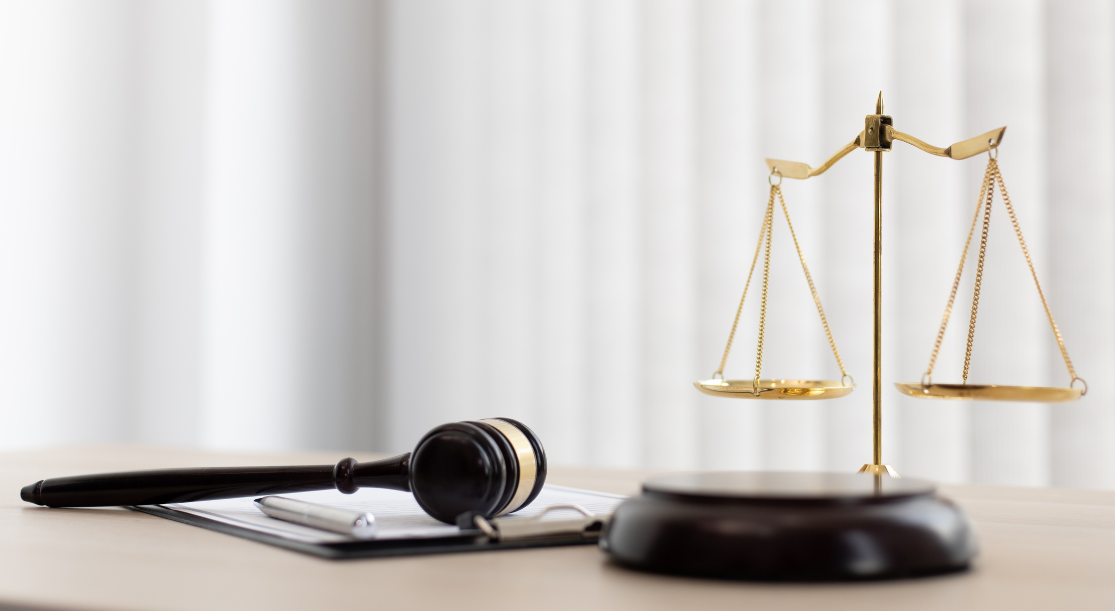
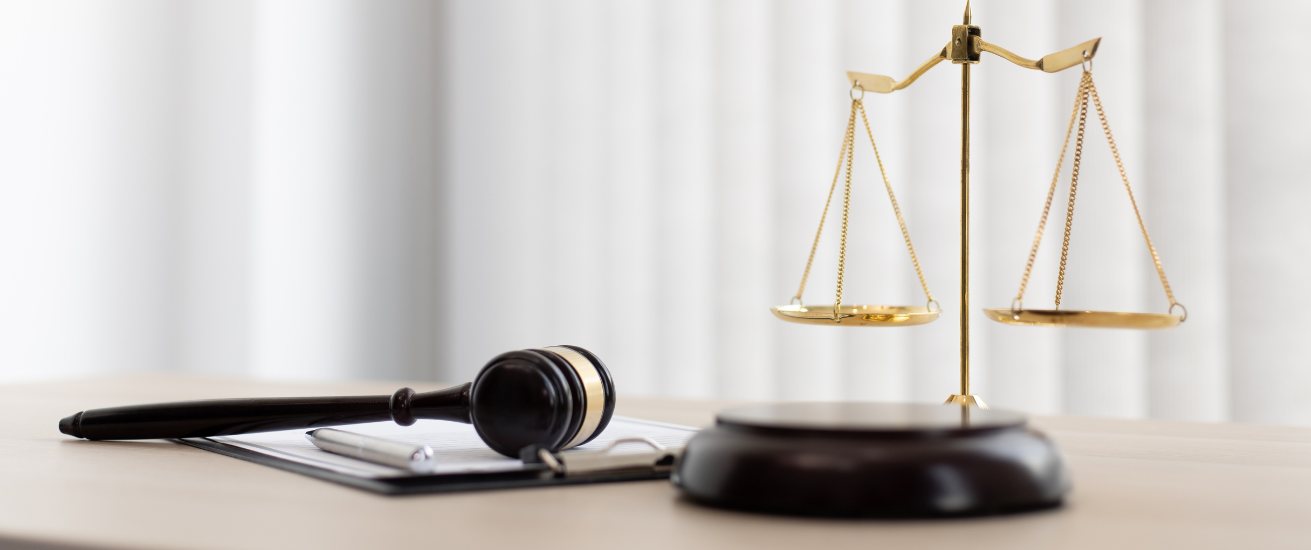
"testimonios"

Changed region(s): [[0.0, 0.0, 0.9758, 0.9891], [0.0, 0.9582, 0.0915, 1.0], [0.9148, 0.7727, 0.9453, 0.8036]]

diff --git a/src/components/cardTst/cardtst.jsx b/src/components/cardTst/cardtst.jsx
@@ -1,0 +1,60 @@
+import React from "react";
+import styles from "./cardtst.module.css";
+import Slider from 'react-slick';
+import 'slick-carousel/slick/slick.css';
+import 'slick-carousel/slick/slick-theme.css';
+import { BiSolidQuoteRight } from 'react-icons/bi';
+import { useMediaQuery } from 'react-responsive';
+
+
+const testimonios = [
+    {
+        text:"Lorem ipsum dolor sit amet, consectetur adipiscing elit, sed do eiusmod tempor incididunt ut labore et dolore magna aliqua. Ut enim ad minim veniam, quis nostrud exercitation ullamco laboris nisi ut aliquip",
+        name: "Ingrid Correa"
+    },
+    {
+        text:"Lorem ipsum dolor sit amet, consectetur adipiscing elit, sed do eiusmod tempor incididunt ut labore et dolore magna aliqua. Ut enim ad minim veniam, quis nostrud exercitation ullamco laboris nisi ut aliquip",
+        name: "Wendy Salinas"
+    },
+    {
+        text:"Lorem ipsum dolor sit amet, consectetur adipiscing elit, sed do eiusmod tempor incididunt ut labore et dolore magna aliqua. Ut enim ad minim veniam, quis nostrud exercitation ullamco laboris nisi ut aliquip",
+        name: "Gabriel Shelby"
+    }, 
+    {
+        text:"Lorem ipsum dolor sit amet, consectetur adipiscing elit, sed do eiusmod tempor incididunt ut labore et dolore magna aliqua. Ut enim ad minim veniam, quis nostrud exercitation ullamco laboris nisi ut aliquip",
+        name: "John Doe"
+    }, {
+        text:"Lorem ipsum dolor sit amet, consectetur adipiscing elit, sed do eiusmod tempor incididunt ut labore et dolore magna aliqua. Ut enim ad minim veniam, quis nostrud exercitation ullamco laboris nisi ut aliquip",
+        name: "Anna Sanders"
+    },
+    {
+        text:"Lorem ipsum dolor sit amet, consectetur adipiscing elit, sed do eiusmod tempor incididunt ut labore et dolore magna aliqua. Ut enim ad minim veniam, quis nostrud exercitation ullamco laboris nisi ut aliquip",
+        name: "Paul Smith"
+    }
+];
+
+const CardTst = () =>{
+
+    const isLargeScreen = useMediaQuery({ minWidth: 768 });
+
+    const settings = {
+        infinite: true,
+        slidesToShow: isLargeScreen ? 3 : 1, // Mostrar 3 tarjetas en pantallas grandes, 1 en pantallas pequeñas
+        slidesToScroll: isLargeScreen ? 3 : 1,
+      };
+
+
+    return (
+        <Slider {...settings} className={styles.slider}>
+            {testimonios.map(tst => (
+                <div className={styles.cardtst}>
+                    <BiSolidQuoteRight />
+                    <p>{tst.text}</p>
+                    <h4>-{tst.name}</h4>
+                </div>
+            ))}
+        </Slider>
+    )
+}
+
+export default CardTst;

diff --git a/src/views/home/home.module.css b/src/views/home/home.module.css
@@ -15,6 +15,7 @@
 }
 
 .intro{
+    width: 360px;
     display: flex;
     flex-direction: column;
     align-items: center;
@@ -22,11 +23,14 @@
 }
 
 .introItems{
-    padding: 20px;    
+    margin-left: 50px;    
+    margin-right: 50px;
     
 }
 
 .sideimg{
+    margin-top: 10px;
+    margin-bottom: 10px;
     width: 80%;
 }
 
@@ -37,7 +41,8 @@
 
 .sidetitle{
     display: flex;
-    align-items: center;
+    justify-content: center;
+    margin-bottom: 20px;
 }
 .sidetitleh2{
     color: #E3DFD6;   
@@ -49,24 +54,37 @@
     padding-bottom: 30px;
 }
 
+.servicios{
+    margin-bottom: 40px;
+}
+
 @media screen and (min-width:768px){
     .background{
         background-image: url('../../img/balanza-bg.png');
-        width: 1115px;
-        height: 611px;
+        background-size: 100% auto;
+        width: 1311px;
+        height: 550px;
+        background-position: center-top;
+        margin: auto;
     }
     .logoDorado{
         width: 500px;
         margin-left: 20%;
+                        
         padding: auto;        
     }
 
-.intro{
-    flex-direction: row;
-    justify-content: space-between;
-    align-items: flex-start;
-    text-align: left;    
-}
+    .intro{
+        width: 1250px;
+        display: flex;
+        flex-direction: row;
+        align-items: center;        
+        justify-content: center;
+    }
+    
+    .introItems{
+        margin: 0 100px;        
+    }
 .sideimg{
     width: 400px;
     padding-top: 20px;
@@ -81,18 +99,21 @@ padding-right: 40px;
 padding-left: 40px;
 }
 .nosotros{
-    width: 1115px;
+    width: auto;      
     height: 611px;
     display: flex;
     flex-direction: row;   
-    justify-content: space-between; 
+    justify-content: space-around; 
     
 }
 .sidetitle{    
-    margin-left: 100px;
+    margin-left: 50px;
+    padding-left: 150px;
+    justify-content: center;
+    align-items: center;
 }
 .cardSvc{
-    margin-left: auto;
+    
 
 }
 

diff --git a/src/views/home/home.jsx b/src/views/home/home.jsx
@@ -3,6 +3,8 @@ import styles from "./home.module.css";
 import logoDorado from "../../img/logo-dorado.png"
 import sideimg from "../../img/side-img.png"
 import Cardsvc from "../../components/cardsvc/cardsvc"
+import Servicios from "../servicios/servicios";
+import Testimonios from "../testimonios/testimonios";
 
 const home = () => {
     return(
@@ -15,8 +17,7 @@ const home = () => {
 
         <div className={styles.intro}>
             <span className={styles.introItems}>
-                <h2>Sabemos que el asunto</h2>
-                <h2>es dificil</h2>
+                <h2>Sabemos que el asunto es dificil</h2>
                 <p>Lorem ipsum dolor sit amet, consectetur adipiscing elit, sed do eiusmod tempor incididunt ut labore et dolore magna aliqua. Ut enim ad minim veniam, quis nostrud exercitation ullamco laboris nisi ut aliquip ex ea commodo consequat. Duis aute irure dolor in reprehenderit in voluptate velit esse cillum dolore eu fugiat nulla </p>
                 <button>CONTACTANOS</button>                
             </span>            
@@ -32,6 +33,14 @@ const home = () => {
             <span className={styles.cardSvc}>
                 <Cardsvc/>
             </span>
+        </div>
+
+        <div className={styles.servicios}>
+            <Servicios/>
+        </div>
+
+        <div className="styles.testimonios">
+          <Testimonios />
         </div>
 
     </>

diff --git a/src/views/servicios/servicios.jsx b/src/views/servicios/servicios.jsx
@@ -1,0 +1,29 @@
+import React from "react";
+import upimg from "../../img/up-img.png"
+import styles from "./servicios.module.css"
+
+const Servicios = () =>{
+return(
+    <div>
+        <img src={upimg} alt="media pagina arriba"  className={styles.uphalf}/>
+
+        <div className={styles.txts}>
+        <span className={styles.sidetitle}>
+            <h1>En lo que nos especializamos</h1>
+        </span>
+        <span className={styles.sidetxt}>
+            <p>aqui se muestra los servicios en los que hay expertise:</p>
+            <ul>
+                <li>aqui se lista uno de los servicios especializados</li>
+                <li>aqui se lista uno de los servicios especializados</li>
+                <li>aqui se lista uno de los servicios especializados</li>
+                <li>aqui se lista uno de los servicios especializados</li>
+                <li>aqui se lista uno de los servicios especializados</li>
+            </ul>
+        </span>
+        </div>
+    </div>
+)
+};
+
+export default Servicios;

diff --git a/src/components/navBar/NavBar.jsx b/src/components/navBar/NavBar.jsx
@@ -1,11 +1,12 @@
 import {Link} from "react-router-dom";
 import styles from "./navBar.module.css"
+import generico from "../../img/logo-generico.png"
 
 const NavBar=()=>{
     return (
         <div className={styles.bar}>
-            <span className={styles.logoMain}>
-                <p className={styles.imgnav}>imagen</p>
+            <span>
+                <img src={generico} alt="generico" className={styles.logoMain}/>
             </span>
             <span className="styles.links">
             {/* <Link to="/intro">Introduccion </Link>
@@ -13,7 +14,7 @@ const NavBar=()=>{
             <Link to="/servicios">Especialidades </Link>
             <Link to="/testimonios">Testimonios</Link>
             <Link to="/contacto">Datos de contacto</Link> */}
-            <Link to="/form">Contactanos </Link>     
+            <button>Contactanos</button>     
             </span>       
         </div>
     )

diff --git a/src/views/testimonios/testimonios.jsx b/src/views/testimonios/testimonios.jsx
@@ -1,0 +1,21 @@
+import React from "react";
+import styles from "./testimonios.module.css"
+import CardTst from "../../components/cardTst/cardtst";
+
+const Testimonios = () =>{
+    return (
+        <div className={styles.background}>
+            <div className={styles.heading}>
+                <h1>Testimonios de los clientes</h1>
+                <h3>Una mirada honesta de nuestro trabajos</h3>
+            </div>
+
+            <div className={styles.testimoniosdiv}>
+                <CardTst />
+            </div>
+            
+        </div>
+    )
+}
+
+export default Testimonios;

diff --git a/src/components/cardTst/cardtst.module.css b/src/components/cardTst/cardtst.module.css
@@ -1,0 +1,27 @@
+.cardtst{
+width: calc((100% - 40px) / 1);
+padding: 20px;
+text-align: center;
+display: flex;
+flex-direction: column;
+align-items: center;
+}
+p{
+    flex: 1;    
+    margin: 0;
+    padding: 0 40px;
+}
+
+.slider{
+    display: flex;
+    flex-wrap: nowrap;
+    overflow: hidden;
+    justify-content: space-between ;
+    padding: 0 20px;
+}
+
+@media screen and (min-width: 768px){
+    .cardtst{
+        flex: 0 0 33%;
+    }
+}

diff --git a/src/views/testimonios/testimonios.module.css b/src/views/testimonios/testimonios.module.css
@@ -1,0 +1,22 @@
+.background{
+    background-color: #E3DFD6;
+}
+.heading{
+    margin-top: 20px;
+    
+}
+.testimoniosdiv{
+    margin-bottom: 20px;
+}
+
+    @media screen and (min-width:768px){
+        .heading{
+            margin-top: 50px;
+            margin-bottom: 50px;
+            padding-top: 17px;
+        }
+        .testimoniosdiv{
+            margin-bottom: 50px;
+            padding-bottom: 50px;
+        }
+}

diff --git a/src/components/navBar/navBar.module.css b/src/components/navBar/navBar.module.css
@@ -4,7 +4,7 @@
     width:360px;
     margin-top: 0px;
     background-color: #E3E3E3;
-    align-items: baseline;
+    align-items: center;
 }
 
 .imgNav{
@@ -21,8 +21,16 @@
     background-color: #323232;
 }
 
+.logoMain{
+    height: 30px;
+}
+
 @media screen and (min-width:768px){
     .bar{
-        width: 1115px;
+        width: 1311px;
+        margin: auto;
+    }
+    .logoMain{
+        height: 40px;
     }
 }

diff --git a/src/views/servicios/servicios.module.css b/src/views/servicios/servicios.module.css
@@ -1,0 +1,22 @@
+.uphalf{
+    width: 360px;
+    padding-top: 40px;
+}
+.rightside{
+    padding-top: 30px;
+    padding-bottom: 30px;
+}
+
+@media screen and (min-width:768px){
+    .uphalf{
+        width: 1250px;
+        padding: 40px ;
+    }
+  
+    .txts{
+        display: flex;
+        flex-direction: row;
+        justify-content: space-around;
+        margin-bottom: 30px;
+    }
+}

diff --git a/src/components/cardsvc/cardsvc.module.css b/src/components/cardsvc/cardsvc.module.css
@@ -62,11 +62,13 @@
 
   @media screen and (min-width:768px) {
     .contenedor{
+      
         width: 700px;
         display: flex;
         flex-direction: row;
         flex-wrap: wrap;  
-        margin-top: 30px;              
+        margin-top: 30px; 
+        justify-content: end;             
     }
     .flipCard{
         margin-right: 50px;                
